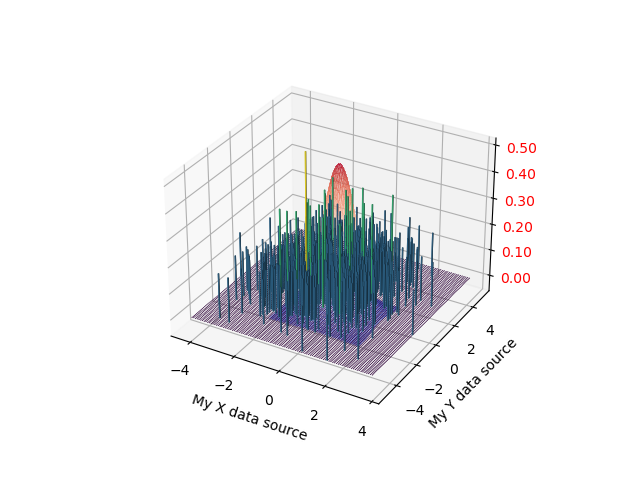
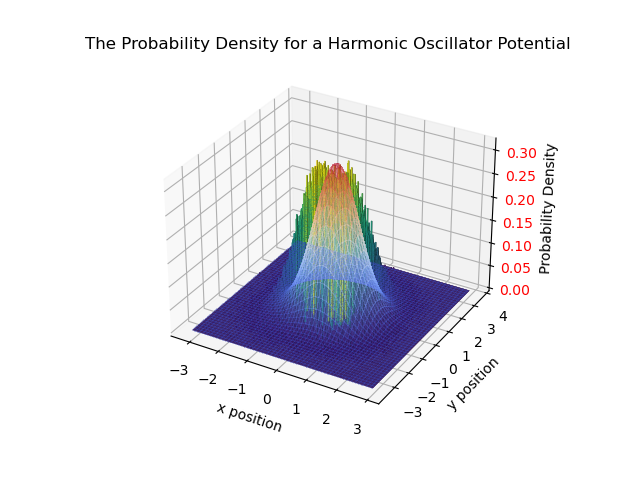
finish dis ting

diff --git a/Extension.py b/Extension.py
@@ -14,13 +14,13 @@ mass = 1   # setting mass to be 1
 
 ti = 0     # start time
 tf = 4     # finish time
-div_t = 2  # division of time points (i.e whole numbs, half, third etc))
+div_t = 1  # division of time points (i.e whole numbs, half, third etc))
 
-epsilon = 1.5  # change in delta_xs size from spatial lattice spacing
-bins = 100     # number of bins for histogram
+epsilon = 1.4  # change in delta_xs size from spatial lattice spacing
+bins = 200     # number of bins for histogram
 
-N_cor = 25        # number of paths to be skipped path set (due to correlation)
-N_CF = 10 ** 4      # number of updates
+N_cor = 3        # number of paths to be skipped path set (due to correlation)
+N_CF = 10 ** 5      # number of updates
 
 '''determinants/shorthands'''
 n_tp = div_t * (tf - ti) + 1          # number of temporal points
@@ -57,12 +57,13 @@ def pot2(x, y):
 def pdf(x, y):
     """prob density function"""
     r = np.sqrt(x ** 2 + y ** 2)
-    #prob = np.exp(- r ** 2) /np.pi
-    prob = np.exp( - r ** 2)/(np.pi ** (1/2))
+    prob = np.exp(- r ** 2) /np.pi
+    #prob = np.exp( - r ** 2)/(np.pi ** (1/2))
     return prob
 
 V = pot1
 
+'''
 x0 = -4
 x1 = 4
 
@@ -81,6 +82,7 @@ ax.set_xlabel('X')
 ax.set_ylabel('Y')
 ax.set_zlabel('Potential')
 #plt.show()
+'''
 
 pot = pot1
 
@@ -138,12 +140,15 @@ print(px1, py1, count/(nt**2))
 """Thermalising lattice"""
 init_x = px_1
 init_y = py_1
+'''
 array_x = [init_x]
 array_y = [init_y]
 for i in range(T):
     new_px, new_py, counts = Metropolis(array_x[-1], array_y[-1], pot)
     array_x.append(new_px)
     array_y.append(new_py)
+'''
+
 
 """generating paths and applying metropolis"""
 all_ps_x = []
@@ -190,7 +195,7 @@ Z = pdf(X, Y)
 fig, ax = plt.subplots(subplot_kw={"projection": "3d"})
 #ax = fig.add_subplot(111, projection='3d')
 
-hist, xedges, yedges = np.histogram2d(xpos, ypos, bins=(bins,bins))#, density=True)
+hist, xedges, yedges = np.histogram2d(xpos, ypos, bins=bins)#, density=True)
 Norm = np.max(Z)/np.max(hist) * hist
 
 #print(x0, min(xedges), x1,  max(xedges))
@@ -224,13 +229,14 @@ plt.title("The Probability Density for a Harmonic Oscillator Potential")
 plt.xlabel("x position")
 plt.ylabel("y position")
 ax.set_zlabel("Probability Density")
-dir, file = os.path.split(__file__)
-#fig.savefig(dir + '\\Images\\3Dhist.png')
 #txt=("A 2D Histogram of the location of points in paths produced via the Metropolis Algorithm within a Harmonic "
 #     "Oscillator Potential."
 #     "The 3D surface plot is the analytic solution to probability density function of the potential."
 #     )
 #plt.figtext(0.5, 0.01, txt, wrap=True, horizontalalignment='center', fontsize=12)
+
+dir, file = os.path.split(__file__)
+fig.savefig(dir + '\\Images\\3Dhist.png')
 plt.show()
 
 

diff --git a/Extension 3.py b/Extension 3.py
@@ -14,7 +14,7 @@ div_t = 2   # division of time points (i.e whole numbs, half, third etc))
 
 epsilon = 1.4  # change in delta_xs size from spatial lattice spacing
 N_cor = 25        # number of paths to be skipped path set (due to correlation)
-N_CF = 10 ** 3       # number of updates
+N_CF = 10 ** 5       # number of updates
 
 '''determinants/shorthands'''
 n_tp = div_t * (tf - ti) + 1          # number of temporal points
@@ -204,6 +204,13 @@ for i in range(int(n)):
 dE_avg = avg(dE_bootstrap)
 dE_sd = sdev(dE_bootstrap)
 
+#print('G(%d) = %g' % (n, avg_G) + ', ' + str(count/(nt*U*N_CF)))
+#print(Av_G)
+
+#print('avg G\n', avg(G))
+#print('Delta E\n', delta_E(G))
+#print('avg G = ' + str(Av_G) + str(sdev(Av_G)))
+
 'Binned'
 nums = [1.5**i for i in range(1, 18)]
 print(nums)
@@ -230,11 +237,13 @@ for i, n in enumerate(nums):
 
 print('done boot')
 
+
+
 """Plotting"""
 
 dE_analytic = [1 for t in range(nt-1)]
 ts = t[:-1]
-print(len(dE_2), len(ts))
+#print(len(dE_2), len(ts))
 
 
 plt.figure(figsize=[8, 4])
@@ -253,17 +262,10 @@ plt.title('Numerically evaluated energy difference between the ground and first 
 #       'the Metropolis Algorithm within a Harmonic Oscillator Potential'
 #       )
 #plt.figtext(0.5, 0.2, txt, wrap=True, horizontalalignment='center', fontsize=12)
-dir, file = os.path.split(__file__)
-#plt.savefig(dir + '\\Images\\delta_E2.png')
 
+dir, file = os.path.split(__file__)
+plt.savefig(dir + '\\Images\\delta_E.png')
 plt.show()
 
-
-#print('G(%d) = %g' % (n, avg_G) + ', ' + str(count/(nt*U*N_CF)))
-#print(Av_G)
-
-#print('avg G\n', avg(G))
-#print('Delta E\n', delta_E(G))
-#print('avg G = ' + str(Av_G) + str(sdev(Av_G)))
 
 

diff --git a/FPI Main.py b/FPI Main.py
@@ -2,6 +2,8 @@ import numpy as np
 import matplotlib.pyplot as plt
 import math as mt
 import random as rdm
+import os
+
 
 '''values'''
 mass = 1  # setting mass to be 1
@@ -13,7 +15,7 @@ tf = 10  # finish time
 
 n_t = 6         # number of temporal points (i.e whole numbs, half, third etc))
 div_x = 10       # division of spacial points
-N = int(10**5)  # number of paths seeding metropolis
+N = int(10**4)  # number of paths seeding metropolis
 
 N_fin = int(10e+3)                    # finishing value on logarithmic scale
 nbr = 20                             # number of graphs
@@ -123,8 +125,8 @@ Norm_G = norm(G)
 y1 = Norm_G
 
 # graph
-plt.figure()
-plt.plot(x, y1)
+#plt.figure()
+#plt.plot(x, y1)
 #plt.show()
 
 
@@ -176,4 +178,7 @@ plt.grid()
 plt.xlim(-2, 2)
 plt.xlabel('position')
 plt.ylim(0, max(y1) + 0.1*max(y1))
+
+dir, file = os.path.split(__file__)
+plt.savefig(dir + '\\Images\\hist-Brute_force.png')
 plt.show()

diff --git a/Extension 2.py b/Extension 2.py
@@ -3,6 +3,7 @@
 import numpy as np
 import random as rdm
 import matplotlib.pyplot as plt
+import os
 
 '''values'''
 mass = 1   # setting mass to be 1
@@ -15,7 +16,7 @@ epsilon = 1.4  # change in delta_xs size from spatial lattice spacing
 bins = 1000     # number of bins for histogram
 
 N_cor = 25        # number of paths to be skipped path set (due to correlation)
-N_CF = 10 ** 4    # number of updates
+N_CF = 10 ** 6    # number of updates
 
 '''determinants/shorthands'''
 n_tp = div_t * (tf - ti) + 1          # number of temporal points
@@ -170,4 +171,6 @@ plt.title('A Histogram of Points Produced from the Metropolis Algorithm Within a
 #        )
 #plt.figtext(0.5, 0.2, txt, wrap=True, horizontalalignment='center', fontsize=12)
 
+dir, file = os.path.split(__file__)
+fig.savefig(dir + '\\Images\\Hist-Higgs.png')
 plt.show()

diff --git a/Metropolis final.py b/Metropolis final.py
@@ -14,7 +14,7 @@ div_t = 2  # division of time points (i.e whole numbs, half, third etc))
 
 epsilon = 1.3  # change in delta_xs size from spatial lattice spacing
 N_cor = 25        # number of paths to be skipped path set (due to correlation)
-N_CF = 10 ** 4    # number of updates
+N_CF = 10 ** 6    # number of updates
 
 bins = 1000      # number of bins for histogram
 
@@ -151,7 +151,8 @@ plt.title("The Probability Density Within a Harmonic Oscillator Potential")
 #       "Metropolis Algorithm"
 #       )
 #plt.figtext(0.5, 0, txt, wrap=True, horizontalalignment='center', fontsize=12)
+
 dir, file = os.path.split(__file__)
-#fig.savefig(dir + '\\Images\\2Dhist.png')
+fig.savefig(dir + '\\Images\\Hist-Harmonic.png')
 plt.show()
 

diff --git a/Tests.py b/Tests.py
@@ -80,9 +80,14 @@ def actn(x, y, j, k, potential):
     kp = (k-1) % N
     kn = (k+1) % N
 
-    r = np.sqrt(x[j] ** 2 + y[k] ** 2)
-    rp = np.sqrt(x[jp] ** 2 + y[kp] ** 2)
-    rn = np.sqrt(x[jn] ** 2 + y[kn] ** 2)
+    Set = (1,-1)
+    A = np.random.choice(Set)
+    B = np.random.choice(Set)
+    C = np.random.choice(Set)
+
+    r = A * np.sqrt(x[j] ** 2 + y[k] ** 2)
+    rp = B * np.sqrt(x[jp] ** 2 + y[kp] ** 2)
+    rn = C * np.sqrt(x[jn] ** 2 + y[kn] ** 2)
 
     KE = m * r * (r - rp - rn) / (a ** 2)
     PE = potential(x[j], y[k])
